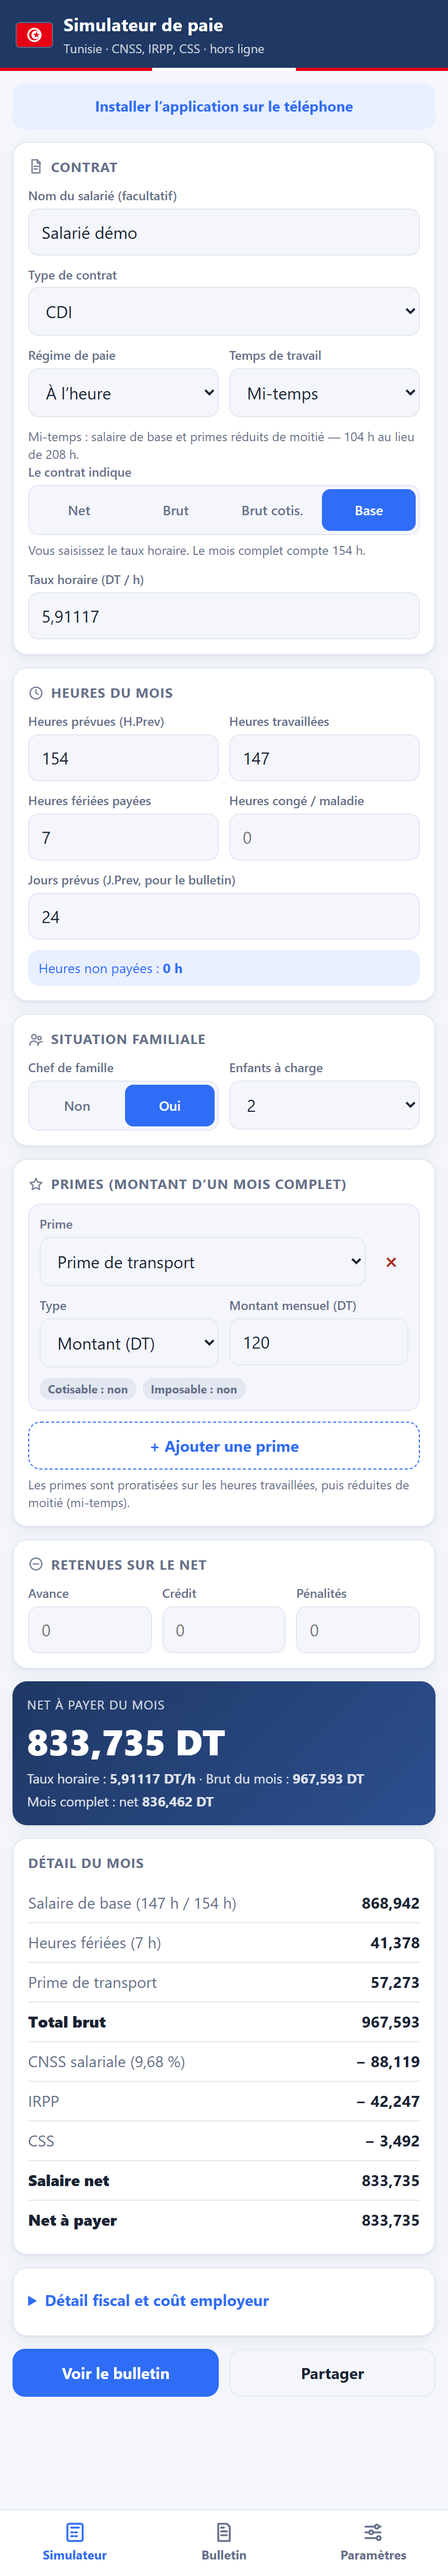
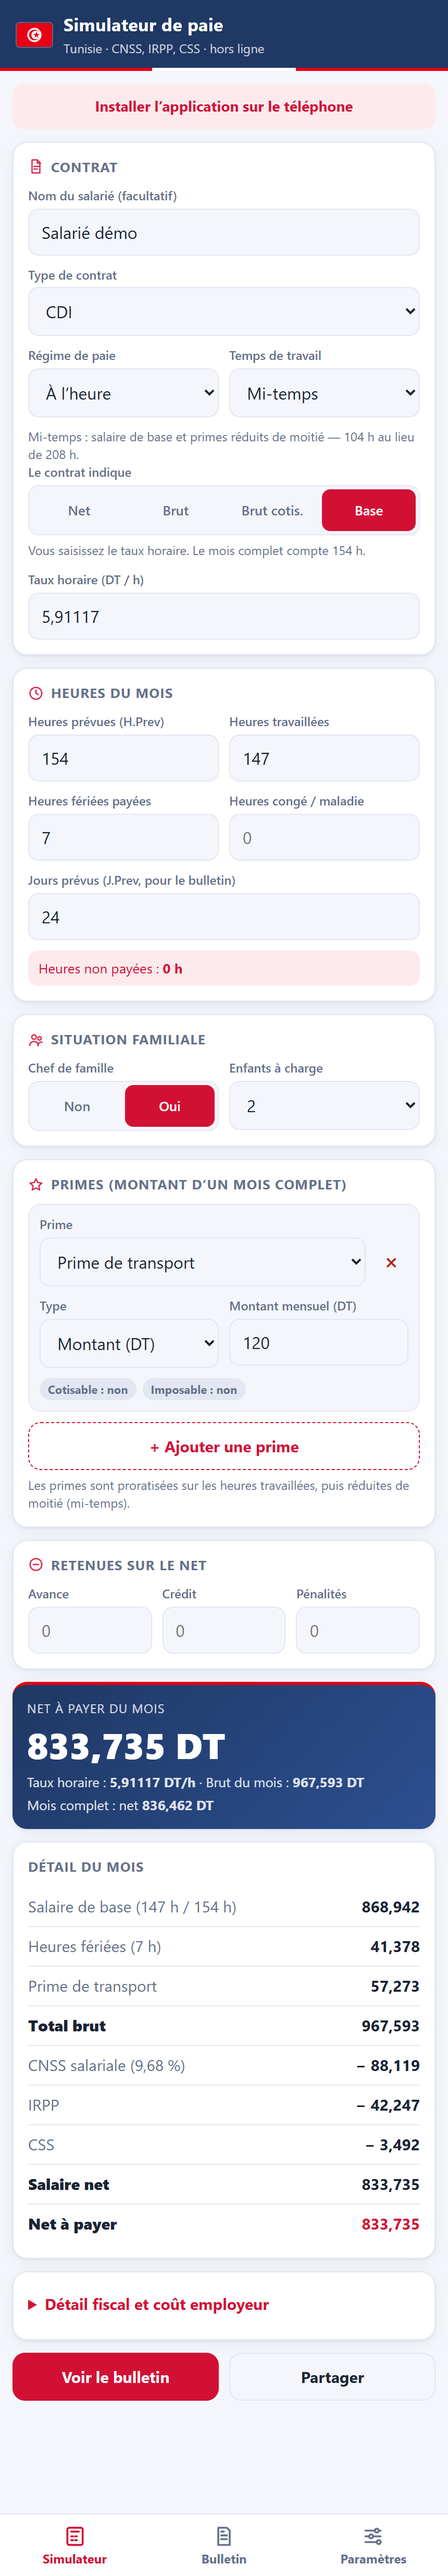
feat: un seul modele de bulletin, sans tampon, rouge tunisien et installation iOS
Bulletin :
- un seul modele conserve, le noir et blanc ; l'ancien modele et ses
  styles sont supprimes, ainsi que la liste de choix du modele
- le tampon d'auteur est retire ; le filigrane au nom de l'auteur et la
  mention de droit d'auteur en pied de page sont conserves
- pied de page reorganise : conges et paiement cote a cote, signatures
  sur toute la largeur

Interface :
- rouge tunisien en couleur d'accent : icones de section, segments
  actifs, boutons, onglet courant, net a payer, filet du bandeau

Installation :
- iOS n'expose pas beforeinstallprompt, Safari ne peut donc pas
  afficher le bouton d'installation ; sur iPhone et iPad l'application
  affiche desormais la consigne Partager puis Sur l'ecran d'accueil

README et captures a jour. sw.js : cache paie-tn-v5.

diff --git a/index.html b/index.html
@@ -14,11 +14,11 @@
 <style>
 :root{
   --bg:#f4f6fb; --card:#ffffff; --ink:#1b2333; --muted:#66708a; --line:#e2e7f1;
-  --navy:#1F3864; --accent:#2f6df6; --accent-soft:#e8efff; --good:#16794c; --good-soft:#e5f6ee; --warn:#a15c00; --warn-soft:#fff3dc; --bad:#b3261e;
+  --navy:#1F3864; --accent:#D21034; --accent-soft:#fdeaed; --tn-red:#E70013; --good:#16794c; --good-soft:#e5f6ee; --warn:#a15c00; --warn-soft:#fff3dc; --bad:#b3261e;
   --shadow:0 1px 2px rgba(20,30,60,.06),0 4px 14px rgba(20,30,60,.06);
 }
 @media (prefers-color-scheme:dark){
-  :root{--bg:#10151f;--card:#1a2130;--ink:#e8ecf5;--muted:#9aa5bf;--line:#2a3347;--navy:#0f1b33;--accent:#6c9bff;--accent-soft:#223152;--good:#5fd39b;--good-soft:#16352a;--warn:#ffc266;--warn-soft:#3a2d12;--bad:#ff8a80;--shadow:none}
+  :root{--bg:#10151f;--card:#1a2130;--ink:#e8ecf5;--muted:#9aa5bf;--line:#2a3347;--navy:#0f1b33;--accent:#ff7b88;--accent-soft:#3b1a20;--tn-red:#E70013;--good:#5fd39b;--good-soft:#16352a;--warn:#ffc266;--warn-soft:#3a2d12;--bad:#ff8a80;--shadow:none}
 }
 *{box-sizing:border-box;-webkit-tap-highlight-color:transparent}
 html,body{margin:0;background:var(--bg);color:var(--ink);font:15px/1.4 -apple-system,BlinkMacSystemFont,"Segoe UI",Roboto,Arial,sans-serif}
@@ -29,7 +29,7 @@ header .hwrap{display:flex;align-items:center;gap:11px}
 header .flag{width:34px;height:23px;border-radius:3px;flex:0 0 auto;box-shadow:0 0 0 1px rgba(255,255,255,.25)}
 header::after{content:"";position:absolute;left:0;right:0;bottom:0;height:3px;background:linear-gradient(90deg,#E70013 0 34%,#fff 34% 66%,#E70013 66%)}
 .card h2{display:flex;align-items:center;gap:7px}
-.card h2 svg{width:15px;height:15px;flex:0 0 auto;stroke:currentColor;fill:none;stroke-width:2;stroke-linecap:round;stroke-linejoin:round;opacity:.9}
+.card h2 svg{width:15px;height:15px;flex:0 0 auto;stroke:var(--accent);fill:none;stroke-width:2;stroke-linecap:round;stroke-linejoin:round;opacity:.9}
 main{padding:12px 12px calc(84px + env(safe-area-inset-bottom));max-width:640px;margin:0 auto}
 .card{background:var(--card);border-radius:14px;padding:14px;margin-bottom:12px;box-shadow:var(--shadow);border:1px solid var(--line)}
 .card h2{margin:0 0 10px;font-size:13px;text-transform:uppercase;letter-spacing:.6px;color:var(--muted);font-weight:700}
@@ -56,7 +56,7 @@ input:focus,select:focus{outline:2px solid var(--accent);outline-offset:0;border
 .btn.ghost{border:1px solid var(--line);color:var(--ink)}
 .btn.danger{border:1px solid var(--bad);color:var(--bad)}
 .btns{display:grid;grid-template-columns:1fr 1fr;gap:10px;margin-bottom:12px}
-.hero{background:linear-gradient(135deg,var(--navy),#2c4f8f);color:#fff;border:0}
+.hero{background:linear-gradient(135deg,var(--navy),#2c4f8f);color:#fff;border:0;border-top:3px solid var(--tn-red)}
 .hero .lab{font-size:12px;opacity:.8;text-transform:uppercase;letter-spacing:.6px}
 .hero .big{font-size:34px;font-weight:800;margin:4px 0 2px;font-variant-numeric:tabular-nums}
 .hero .sub{font-size:13px;opacity:.85}
@@ -65,6 +65,7 @@ input:focus,select:focus{outline:2px solid var(--accent);outline-offset:0;border
 .kv span:first-child{color:var(--muted)}
 .kv b{font-weight:700;white-space:nowrap}
 .kv.tot{font-weight:800}
+.kv.tot:last-child b{color:var(--accent)}
 .kv.tot span:first-child{color:var(--ink)}
 .pill{display:inline-block;font-size:12px;font-weight:700;padding:4px 10px;border-radius:99px}
 .pill.ok{background:var(--good-soft);color:var(--good)}
@@ -82,52 +83,14 @@ table.t th{font-size:11px;color:var(--muted);text-align:left;padding:4px 4px 6px
 table.t td{padding:3px 3px}
 table.t input[type=text],table.t input[type=number]{padding:8px 8px;font-size:14px;min-height:38px}
 .toast{position:fixed;left:50%;bottom:calc(76px + env(safe-area-inset-bottom));transform:translateX(-50%);background:#222c;color:#fff;padding:10px 16px;border-radius:99px;font-size:13px;z-index:9;backdrop-filter:blur(6px)}
+.install svg{width:14px;height:14px;vertical-align:-2px;stroke:currentColor;fill:none;stroke-width:2;stroke-linecap:round;stroke-linejoin:round}
+.install.note-ios{line-height:1.5;text-align:left;font-weight:600;cursor:default}
 .install{display:none;background:var(--accent-soft);color:var(--accent);font-weight:700;text-align:center;padding:10px;border-radius:12px;margin-bottom:12px;border:0;width:100%;font-family:inherit;font-size:14px;min-height:44px}
 
-/* ---------- bulletin (template papier, toujours clair) ---------- */
+/* ---------- bulletin (feuille papier, toujours claire) ---------- */
 .paper-wrap{width:100%;margin-bottom:12px;overflow:hidden;border-radius:6px;box-shadow:var(--shadow)}
 .paper{width:720px;background:#fff;color:#000;font:11px/1.25 Arial,Helvetica,sans-serif;padding:14px 14px 16px;transform-origin:top left}
 .paper *{box-sizing:border-box}
-.p-title{text-align:center;font-size:17px;font-weight:700;text-decoration:underline;margin:4px 0 14px}
-.p-top{display:flex;justify-content:space-between;gap:70px;margin-bottom:14px}
-.pbox{border:1px solid #000;padding:4px 6px}
-.p-soc{flex:1}
-.p-soc div,.p-per div{font-weight:700;padding:3px 0}
-.p-per{width:240px}
-.p-per span{display:inline-block;min-width:92px}
-.p-per span+span{font-weight:400}
-.p-emp{display:grid;grid-template-columns:205px 1fr 195px;border:1px solid #000;margin-bottom:14px}
-.p-emp>div{padding:5px 7px}
-.p-emp>div+div{border-left:1px solid #000}
-.p-emp .l{display:flex;align-items:baseline;gap:6px;padding:3px 0}
-.p-emp .l b{display:inline-block;min-width:78px}
-.p-emp .l .v{font-weight:400}
-.p-emp .col3 .l b{min-width:64px}
-.p-emp .cat{display:flex;gap:6px;align-items:baseline;padding:3px 0}
-.p-emp .cat b{min-width:78px}
-table.p-tab{width:100%;border-collapse:collapse;border:0;font-size:11px;height:560px}
-table.p-tab th{border:1px solid #000;padding:5px 3px;font-weight:700;text-align:center}
-table.p-tab th.nb{border:0 !important}
-table.p-tab td{padding:3px 5px;border-left:1px solid #000;border-right:1px solid #000;vertical-align:middle;white-space:nowrap}
-table.p-tab td.r{text-align:right}
-table.p-tab tr.b td{font-weight:700}
-table.p-tab tr.sp td{height:12px;padding:0}
-table.p-tab tr.fill td{height:100%;padding:0;border-bottom:1px solid #000}
-.p-net{border:1px solid #000;border-top:0;text-align:right;padding:8px 8px 6px;font-weight:700;margin-bottom:12px}
-.p-net div+div{margin-top:6px}
-.p-foot{display:grid;grid-template-columns:1fr 150px;gap:14px}
-.p-pay{display:grid;grid-template-columns:130px 1fr 1fr;border:1px solid #000}
-.p-pay div{padding:4px 6px;text-align:center;border-bottom:1px solid #000;border-right:1px solid #000;overflow:hidden}
-.p-pay div:nth-child(3n){border-right:0}
-.p-pay div:nth-child(-n+3){font-weight:700;text-align:left}
-.p-pay div:nth-child(n+4){border-bottom:0}
-.p-sign{display:grid;grid-template-columns:1fr 1fr;gap:14px;margin-top:12px}
-.p-sign b{display:block;margin-bottom:6px}
-.p-sign div div{border:1px solid #000;height:82px}
-.p-cg{display:grid;grid-template-columns:1fr 54px;border:1px solid #000;border-bottom:0}
-.p-cg:last-child{border-bottom:1px solid #000}
-.p-cg div{padding:5px 5px;min-height:34px;display:flex;align-items:center}
-.p-cg div+div{border-left:1px solid #000;justify-content:center}
 .bul-field label{margin-top:8px}
 
 /* ---------- modèle noir et blanc ---------- */
@@ -164,17 +127,14 @@ table.bw-tab tr.dim td{opacity:.72}
 .bw-net{display:flex;justify-content:space-between;align-items:center;border:2.5px solid #000;padding:10px 14px;margin:14px 0 14px}
 .bw-net span{font-size:10.5px;letter-spacing:2.4px;text-transform:uppercase;font-weight:800}
 .bw-net b{font-size:20px;font-weight:800;letter-spacing:.5px}
-.bw-foot{display:grid;grid-template-columns:1fr 212px;gap:16px;align-items:start}
+.bw-foot{display:grid;grid-template-columns:1fr 1fr;gap:18px;align-items:start}
 .bw-mini{width:100%;border-collapse:collapse;font-size:10px}
 .bw-mini th{text-align:left;font-size:9px;letter-spacing:1.2px;text-transform:uppercase;border-bottom:1px solid #000;padding:4px 5px;font-weight:800}
 .bw-mini td{padding:3px 5px;border-bottom:1px solid #bbb}
 .bw-mini td:last-child{text-align:right;font-weight:700}
-.bw-sg{display:grid;grid-template-columns:1fr 1fr;gap:14px;margin-top:14px}
+.bw-sg{display:grid;grid-template-columns:1fr 1fr;gap:28px;margin-top:20px}
 .bw-sg div b{display:block;font-size:9px;letter-spacing:1.2px;text-transform:uppercase;margin-bottom:5px}
 .bw-sg div i{display:block;border-bottom:1px solid #000;height:62px}
-.bw-seal{position:relative;text-align:center}
-.bw-seal svg{width:122px;height:122px;transform:rotate(-7deg);opacity:.88}
-.bw-seal p{margin:4px 0 0;font-size:8.5px;letter-spacing:.6px;line-height:1.45}
 .bw-copy{border-top:1px solid #000;margin-top:14px;padding-top:7px;display:flex;justify-content:space-between;font-size:8.5px;letter-spacing:.4px}
 
 @media print{
@@ -185,8 +145,8 @@ table.bw-tab tr.dim td{opacity:.72}
   #paper{position:absolute;left:0;top:0;transform:none !important;width:720px;padding:0}
   .paper.bw{padding:4px 2px !important}
   .paper-wrap{overflow:visible;box-shadow:none;height:auto !important}
-  /* le filigrane et le tampon doivent sortir à l'impression */
-  .wm,.wm span,.bw-seal,.bw-seal svg{-webkit-print-color-adjust:exact;print-color-adjust:exact}
+  /* le filigrane doit sortir à l'impression */
+  .wm,.wm span{-webkit-print-color-adjust:exact;print-color-adjust:exact}
 }
 </style>
 </head>
@@ -440,33 +400,15 @@ table.bw-tab tr.dim td{opacity:.72}
     $('#app').innerHTML =
       '<div class="card"><h2>' + ic('periode') + 'Période</h2><div class="row c2"><div><label>Mois de paie</label><select data-b="mois">' + optionsHtml(MOIS, bul.mois) + '</select></div>' +
       '<div><label>Année</label><input type="text" inputmode="numeric" data-b="annee" value="' + esc(bul.annee) + '"></div></div>' +
-      '<div class="row"><div><label>Modèle du bulletin</label><select data-b="template">' +
-        pairsHtml([['bw', 'Noir et blanc (avec tampon)'], ['classique', 'Classique']], bul.template) + '</select></div></div>' +
       '<p class="hint">Les montants viennent de l’onglet Simulateur (contrat, jours, primes).</p></div>' +
       '<div class="btns"><button class="btn solid" data-act="print">Imprimer / PDF</button><button class="btn ghost" style="border-style:solid" data-act="share">Partager</button></div>' +
-      '<div class="paper-wrap" id="pwrap"><div class="paper" id="paper"></div></div>' +
+      '<div class="paper-wrap" id="pwrap"><div class="paper bw" id="paper"></div></div>' +
       '<div class="card"><details><summary>Informations du bulletin (société, salarié, banque)</summary>' + f + '</details></div>';
     updatePaper();
   }
-  function tr(cls, cells) { return '<tr class="' + cls + '">' + cells.map(function (c, i) { return '<td' + (i > 0 ? ' class="r"' : '') + '>' + (c == null ? '' : c) + '</td>'; }).join('') + '</tr>'; }
 
   /* ---------- modèle noir et blanc ---------- */
   var AUTEUR = 'Aya Fekih Romdhane';
-  function sealSvg() {
-    return '<svg viewBox="0 0 160 160" role="img" aria-label="Tampon de l’auteur">' +
-      '<defs><path id="arcT" d="M 25,80 A 55,55 0 0 1 135,80"/><path id="arcB" d="M 33,80 A 47,47 0 0 0 127,80"/></defs>' +
-      '<circle cx="80" cy="80" r="74" fill="none" stroke="#111" stroke-width="3"/>' +
-      '<circle cx="80" cy="80" r="65" fill="none" stroke="#111" stroke-width="1.2"/>' +
-      '<text font-family="Arial,Helvetica,sans-serif" font-size="13" font-weight="700" letter-spacing="1.4" fill="#111">' +
-      '<textPath href="#arcT" startOffset="50%" text-anchor="middle">AYA FEKIH ROMDHANE</textPath></text>' +
-      '<text font-family="Arial,Helvetica,sans-serif" font-size="8.6" font-weight="700" letter-spacing="1.7" fill="#111">' +
-      '<textPath href="#arcB" startOffset="50%" text-anchor="middle">AUTEUR · DÉVELOPPEUR</textPath></text>' +
-      '<circle cx="80" cy="72" r="14" fill="#111"/><circle cx="83.4" cy="72" r="11.2" fill="#fff"/>' +
-      '<path fill="#111" d="M86.5,64.5 L88.26,69.9 L93.95,69.9 L89.34,73.24 L91.1,78.64 L86.5,75.3 L81.9,78.64 L83.66,73.24 L79.05,69.9 L84.74,69.9 Z"/>' +
-      '<path d="M62 94 H98" stroke="#111" stroke-width="1"/>' +
-      '<text x="80" y="107" text-anchor="middle" font-family="Arial,Helvetica,sans-serif" font-size="9.5" font-weight="700" letter-spacing="1.2" fill="#111">© 2026</text>' +
-      '</svg>';
-  }
   function paperBW(r, c, D, U) {
     var B = function (k) { return esc(bul[k]); };
     var cell = function (v, cls) { return '<td' + (cls ? ' class="' + cls + '"' : '') + '>' + (v == null || v === '' ? '' : v) + '</td>'; };
@@ -529,91 +471,23 @@ table.bw-tab tr.dim td{opacity:.72}
       '<table class="bw-tab"><thead><tr><th>Désignation</th><th>Nombre</th><th>Base</th><th>Taux</th><th>Gain</th><th>Retenue</th></tr></thead>' +
         '<tbody>' + rows + '</tbody></table>' +
       '<div class="bw-net"><span>Net à payer</span><b>' + f3(r.netAPayer) + ' DT</b></div>' +
-      '<div class="bw-foot"><div>' +
+      '<div class="bw-foot">' +
         '<table class="bw-mini"><tr><th colspan="2">Congés</th></tr>' +
           '<tr><td>Congés pris ce mois (payé / maladie)</td><td>' + f1(U.con) + nb + '</td></tr>' +
           '<tr><td>Congés acquis ce mois</td><td>' + f1(WP.num(bul.acquis)) + ' j</td></tr>' +
           '<tr><td>Solde congé payé</td><td>' + f1(WP.num(bul.solde)) + ' j</td></tr>' +
           '<tr><td>' + (r.horaire ? 'Heures' : 'Jours') + ' d’absence</td><td>' + f1(U.abs) + nb + '</td></tr></table>' +
-        '<table class="bw-mini" style="margin-top:10px"><tr><th colspan="2">Paiement</th></tr>' +
+        '<table class="bw-mini"><tr><th colspan="2">Paiement</th></tr>' +
           '<tr><td>Mode</td><td>' + (B('paiement') || '—') + '</td></tr>' +
           '<tr><td>Banque</td><td>' + (B('banque') || '—') + '</td></tr>' +
-          '<tr><td>N° de compte</td><td>' + (B('compte') || '—') + '</td></tr></table>' +
-        '<div class="bw-sg"><div><b>Signature et cachet employeur</b><i></i></div><div><b>Signature employé</b><i></i></div></div></div>' +
-      '<div class="bw-seal">' + sealSvg() + '<p><b>' + esc(AUTEUR) + '</b><br>Conception et développement<br>du simulateur de paie</p></div></div>' +
+          '<tr><td>N° de compte</td><td>' + (B('compte') || '—') + '</td></tr></table></div>' +
+      '<div class="bw-sg"><div><b>Signature et cachet employeur</b><i></i></div><div><b>Signature employé</b><i></i></div></div>' +
       '<div class="bw-copy"><span>Simulateur de paie — Tunisie · document généré à titre indicatif</span>' +
         '<span>© 2026 ' + esc(AUTEUR) + ' — tous droits réservés</span></div>';
   }
   function updatePaper() {
     var r = calc(), c = params.contracts[state.contract] || {}, D = r.days, U = r.units;
-    var sheet = $('#paper');
-    if (bul.template !== 'classique') {
-      sheet.className = 'paper bw';
-      sheet.innerHTML = paperBW(r, c, D, U);
-      window._last = r;
-      return;
-    }
-    sheet.className = 'paper';
-    var sit = state.chef ? 'CHEF DE FAMILLE' : 'CELIBATAIRE';
-    var rows = '';
-    rows += tr('', ['Salaire de base', f1(U.trav), f5(r.rate), fp(U.trav / U.prev), f3(r.gBase), '', '', '']);
-    rows += tr('', ['Congé(s) payé(s) / maladie', f1(U.con), f5(r.rate), fp(U.con / U.prev), f3(r.gCon), '', '', '']);
-    rows += tr('', [r.horaire ? 'Heures fériées' : 'Jours fériés', f1(U.fer), f5(r.rate), fp(U.fer / U.prev), f3(r.gFer), '', '', '']);
-    rows += tr('', ['Absences non payées', f1(U.abs), '', fp(U.abs / U.prev), U.abs > 0 ? f3(r.gAbs) : '', '', '', '']);
-    r.primes.forEach(function (p) { rows += tr('', [esc(p.name), f1(U.trav), f5(p.full / U.prev), '', f3(p.amount), '', '', '']); });
-    rows += tr('sp', ['', '', '', '', '', '', '', '']);
-    rows += tr('b', ['Total Brut', '', '', '', f3(r.brut), '', '', '']);
-    rows += tr('sp', ['', '', '', '', '', '', '', '']);
-    rows += tr('', ['Retenue CNSS', '', f3(r.brutCot), fp(c.cnssS || 0), '', f3(r.cnss), '', '']);
-    rows += tr('', ['Contribution patronale', '', f3(r.brutCot), '', '', '', fp(c.cnssP || 0), f3(r.patr)]);
-    rows += tr('', ['Cotisation accident de travail', '', f3(r.brutCot), '', '', '', fp(c.at || 0), f3(r.at)]);
-    rows += tr('b', ['Total cotisation', '', '', '', '', f3(r.cnss), '', '']);
-    rows += tr('sp', ['', '', '', '', '', '', '', '']);
-    rows += tr('', ['Salaire Brut Imposable', '', '', '', '', f3(r.impMens), '', '']);
-    rows += tr('sp', ['', '', '', '', '', '', '', '']);
-    rows += tr('', ['Déduction Situation familiale', '', '', '', '', f3(r.deduc / 12), '', '']);
-    rows += tr('sp', ['', '', '', '', '', '', '', '']);
-    rows += tr('', ['IRPP', '', '', '', '', f3(r.irpp), '', '']);
-    rows += tr('', ['Contribution Sociale Solidaire', '', '', '', '', f3(r.css), '', '']);
-    rows += tr('sp', ['', '', '', '', '', '', '', '']);
-    rows += tr('', ['Salaire net', '', '', '', '', f3(r.net), '', '']);
-    rows += tr('', ['Avance', '', '', '', '', f3(WP.num(state.avance)), '', '']);
-    rows += tr('', ['Remboursement crédit', '', '', '', '', f3(WP.num(state.credit)), '', '']);
-    rows += tr('', ['Pénalités', '', '', '', '', f3(WP.num(state.penal)), '', '']);
-    rows += tr('b', ['Net à payer', '', '', '', '', f3(r.netAPayer), '', '']);
-    rows += '<tr class="fill"><td></td><td></td><td></td><td></td><td></td><td></td><td></td><td></td></tr>';
-    var B = function (k) { return esc(bul[k]); };
-    var html =
-      '<div class="p-title">BULLETIN DE PAIE</div>' +
-      '<div class="p-top"><div class="pbox p-soc"><div>' + B('societe') + '&nbsp;</div><div>' + B('adresseSoc') + '&nbsp;</div><div>Affiliation CNSS : ' + (B('affil') || '--') + '</div></div>' +
-      '<div class="pbox p-per"><div><span>Année :</span><span>' + B('annee') + '</span></div><div><span>Mois de paie :</span><span>' + B('mois') + '</span></div></div></div>' +
-      '<div class="p-emp"><div>' +
-        '<div class="l"><b>Matricule :</b><span class="v">' + B('matricule') + '</span></div>' +
-        '<div class="l"><b>N° CNSS :</b><span class="v">' + B('cnssNo') + '</span></div>' +
-        '<div class="l"><b>Situation</b><span class="v">' + sit + '</span></div>' +
-        '<div class="l"><b>Enfants à charge</b><span class="v">' + state.enfants + '</span></div></div>' +
-      '<div><div class="l"><b>Emploi :</b><span class="v">' + B('emploi') + '</span></div>' +
-        '<div class="cat"><b>Catégorie :</b><span>' + B('categorie') + '</span><b style="min-width:0;margin-left:14px">Echelon :</b><span>' + B('echelon') + '</span></div>' +
-        '<div class="cat"><b>J.Prev :</b><span>' + dj(D.prev) + ' j</span>' +
-          (r.horaire ? '<b style="min-width:0;margin-left:14px">H.Prev :</b><span>' + dj(U.prev) + ' h</span>' : '') + '</div>' +
-        '<div class="l"><b>Salaire de base</b><span class="v">' + (r.horaire ? f5(r.rate) + ' / h' : f3(r.baseMois)) + '</span></div>' +
-        '<div class="l"><b>Régime horaire</b><span class="v">' + regimeLabel() + '</span></div></div>' +
-      '<div class="col3"><div class="l"><b>Nom &amp;</b><b style="min-width:0">' + esc(state.name) + '</b></div>' +
-        '<div class="l"><b>Adresse :</b><span class="v">' + B('adresse') + '</span></div>' +
-        '<div class="l"><b>CIN :</b><span class="v">' + B('cin') + '</span></div>' +
-        '<div class="l"><b>Département</b><span class="v">' + B('dept') + '</span></div></div></div>' +
-      '<table class="p-tab"><colgroup><col style="width:30%"><col style="width:8%"><col style="width:12%"><col style="width:9%"><col style="width:13%"><col style="width:12%"><col style="width:8%"><col style="width:8%"></colgroup>' +
-      '<thead><tr><th class="nb" colspan="6"></th><th colspan="2">Part patronale</th></tr>' +
-      '<tr><th>Désignation</th><th>Nombre</th><th>Base</th><th>Taux</th><th>Gain</th><th>Retenue</th><th>Taux</th><th>Retenue</th></tr></thead><tbody>' + rows + '</tbody></table>' +
-      '<div class="p-net"><div>Net à payer en dinars</div><div>' + f3(r.netAPayer) + '</div></div>' +
-      '<div class="p-foot"><div>' +
-        '<div class="p-pay"><div>Mode de paiement</div><div>Intitulé banque</div><div>N° de compte</div><div>' + B('paiement') + '</div><div>' + B('banque') + '</div><div>' + B('compte') + '</div></div>' +
-        '<div class="p-sign"><div><b>Signature et cachet employeur</b><div></div></div><div><b>Signature employé</b><div></div></div></div></div>' +
-      '<div><div class="p-cg"><div>Congés pris mois en cours (payé / maladie) :</div><div>' + f1(U.con) + '</div></div>' +
-        '<div class="p-cg"><div>Congés acquis mois en cours :</div><div>' + f1(WP.num(bul.acquis)) + '</div></div>' +
-        '<div class="p-cg"><div>Solde congé payé :</div><div>' + f1(WP.num(bul.solde)) + '</div></div>' +
-        '<div class="p-cg"><div>Nombre ' + (r.horaire ? 'd’heures' : 'de jours') + ' d’absence :</div><div>' + f1(U.abs) + '</div></div></div></div>';
-    $('#paper').innerHTML = html;
+    $('#paper').innerHTML = paperBW(r, c, D, U);
     window._last = r;
     fitPaper();
   }
@@ -751,11 +625,33 @@ table.bw-tab tr.dim td{opacity:.72}
 
   /* ================= INSTALLATION PWA ================= */
   var deferred = null;
+  // iOS n'expose pas beforeinstallprompt : Safari n'a pas d'API d'installation,
+  // l'ajout se fait à la main par Partager > Sur l'écran d'accueil.
+  var isIOS = /iPad|iPhone|iPod/.test(navigator.userAgent) ||
+    (navigator.platform === 'MacIntel' && navigator.maxTouchPoints > 1);
+  function isInstalled() {
+    return navigator.standalone === true ||
+      (window.matchMedia && window.matchMedia('(display-mode: standalone)').matches);
+  }
   window.addEventListener('beforeinstallprompt', function (e) { e.preventDefault(); deferred = e; bindInstall(); });
   function bindInstall() {
-    var btn = $('#installBtn'); if (!btn || !deferred) return;
-    btn.style.display = 'block';
-    btn.onclick = function () { deferred.prompt(); deferred.userChoice.then(function () { deferred = null; btn.style.display = 'none'; }); };
+    var btn = $('#installBtn'); if (!btn) return;
+    if (isInstalled()) { btn.style.display = 'none'; return; }
+    if (deferred) {
+      btn.textContent = 'Installer l’application sur le téléphone';
+      btn.classList.remove('note-ios');
+      btn.style.display = 'block';
+      btn.onclick = function () { deferred.prompt(); deferred.userChoice.then(function () { deferred = null; btn.style.display = 'none'; }); };
+      return;
+    }
+    if (isIOS) {
+      btn.innerHTML = 'Installer sur iPhone : appuyez sur <b>Partager</b> ' +
+        '<svg viewBox="0 0 24 24" aria-hidden="true"><path d="M12 15V3M8.5 6.5 12 3l3.5 3.5"/>' +
+        '<path d="M5 12v7a2 2 0 0 0 2 2h10a2 2 0 0 0 2-2v-7"/></svg> puis <b>Sur l’écran d’accueil</b>';
+      btn.classList.add('note-ios');
+      btn.style.display = 'block';
+      btn.onclick = null;
+    }
   }
   if ('serviceWorker' in navigator) window.addEventListener('load', function () { navigator.serviceWorker.register('sw.js').catch(function () {}); });
 

diff --git a/sw.js b/sw.js
@@ -1,4 +1,4 @@
-const CACHE = 'paie-tn-v4';
+const CACHE = 'paie-tn-v5';
 const ASSETS = ['./', './index.html', './calc.js', './manifest.webmanifest', './icon-192.png', './icon-512.png', './icon-maskable-512.png'];
 self.addEventListener('install', (e) => {
   e.waitUntil(caches.open(CACHE).then((c) => c.addAll(ASSETS)).then(() => self.skipWaiting()));

diff --git a/README.md b/README.md
@@ -26,13 +26,9 @@ En régime horaire, le mois se compte en heures (`H.Prev`) et le salaire de base
 
 ### Bulletin de paie
 
-Modèle **noir et blanc**, prêt à imprimer ou à exporter en PDF depuis le navigateur. Le nom de l'auteur apparaît en filigrane en fond de page, avec le tampon d'auteur et la mention de droit d'auteur en pied de document — à l'écran comme à l'impression.
+Modèle **noir et blanc**, prêt à imprimer ou à exporter en PDF depuis le navigateur. Le nom de l'auteur apparaît en filigrane en fond de page et la mention de droit d'auteur en pied de document — à l'écran comme à l'impression.
 
 ![Bulletin de paie](docs/screenshots/bulletin.png)
-
-Un second modèle, plus proche d'un bulletin classique, reste disponible dans la liste **Modèle du bulletin** :
-
-![Modèle classique](docs/screenshots/bulletin-classique.png)
 
 ### Paramètres
 
@@ -84,14 +80,7 @@ Avance, remboursement de crédit et pénalités sont déduits après le calcul d
 
 Bulletin au format tunisien : en-tête société et salarié, tableau des gains et retenues avec part patronale, net à payer en dinars, mode de paiement, zones de signature et suivi des congés. Imprimable directement ou exportable en PDF.
 
-Deux modèles au choix :
-
-| Modèle | Description |
-|--------|-------------|
-| **Noir et blanc** (par défaut) | Mise en page sobre, gains et retenues regroupés par section, filigrane au nom de l'auteur, tampon d'auteur et mention de droit d'auteur |
-| **Classique** | Mise en page tabulaire traditionnelle, encadrés pleine largeur |
-
-Le filigrane et le tampon sont conservés à l'impression comme à l'affichage.
+Mise en page sobre en noir et blanc : gains, retenues salariales et charges patronales regroupés par section avec leur total, net à payer en encadré, congés et paiement en pied de page. Le filigrane au nom de l'auteur et la mention de droit d'auteur sont conservés à l'impression comme à l'affichage.
 
 ### Paramètres modifiables
 
@@ -174,7 +163,10 @@ Le mois complet de référence garde le régime et la quotité du salarié : pou
 
 ### En ligne
 
-Ouvrir [aya-fekih-romdhane.github.io/Paie-Simulator](https://aya-fekih-romdhane.github.io/Paie-Simulator/), puis, sur téléphone, utiliser le bouton **Installer l'application sur le téléphone** pour l'ajouter à l'écran d'accueil et l'utiliser hors ligne.
+Ouvrir [aya-fekih-romdhane.github.io/Paie-Simulator](https://aya-fekih-romdhane.github.io/Paie-Simulator/), puis l'ajouter à l'écran d'accueil pour l'utiliser hors ligne :
+
+- **Android, Chrome, Edge** : le bouton **Installer l'application sur le téléphone** s'affiche en haut de l'écran.
+- **iPhone et iPad** : iOS n'expose aucune API d'installation — Safari ne peut donc pas afficher ce bouton. L'ajout se fait par **Partager** puis **Sur l'écran d'accueil**. L'application affiche d'elle-même cette consigne lorsqu'elle est ouverte sur iOS.
 
 ### En local
 
@@ -234,7 +226,7 @@ Principales fonctions exposées : `solve`, `solveBase`, `compute`, `normDays`, `
 
 HTML, CSS et JavaScript natifs — aucun framework, aucune dépendance, aucune compilation. Progressive Web App (manifeste et service worker), données conservées en `localStorage`, hébergement GitHub Pages.
 
-Interface aux couleurs de la Tunisie : drapeau en en-tête, filet rouge et blanc, icônes de section dessinées en SVG. Le tampon d'auteur du bulletin est lui aussi un SVG, sans image externe — le document reste donc entièrement autonome et imprimable hors ligne.
+Interface aux couleurs de la Tunisie : drapeau en en-tête, filet rouge et blanc, rouge tunisien en couleur d'accent et icônes de section dessinées en SVG. Aucune image externe n'est chargée — l'application et le bulletin restent entièrement autonomes et imprimables hors ligne.
 
 ---
 
